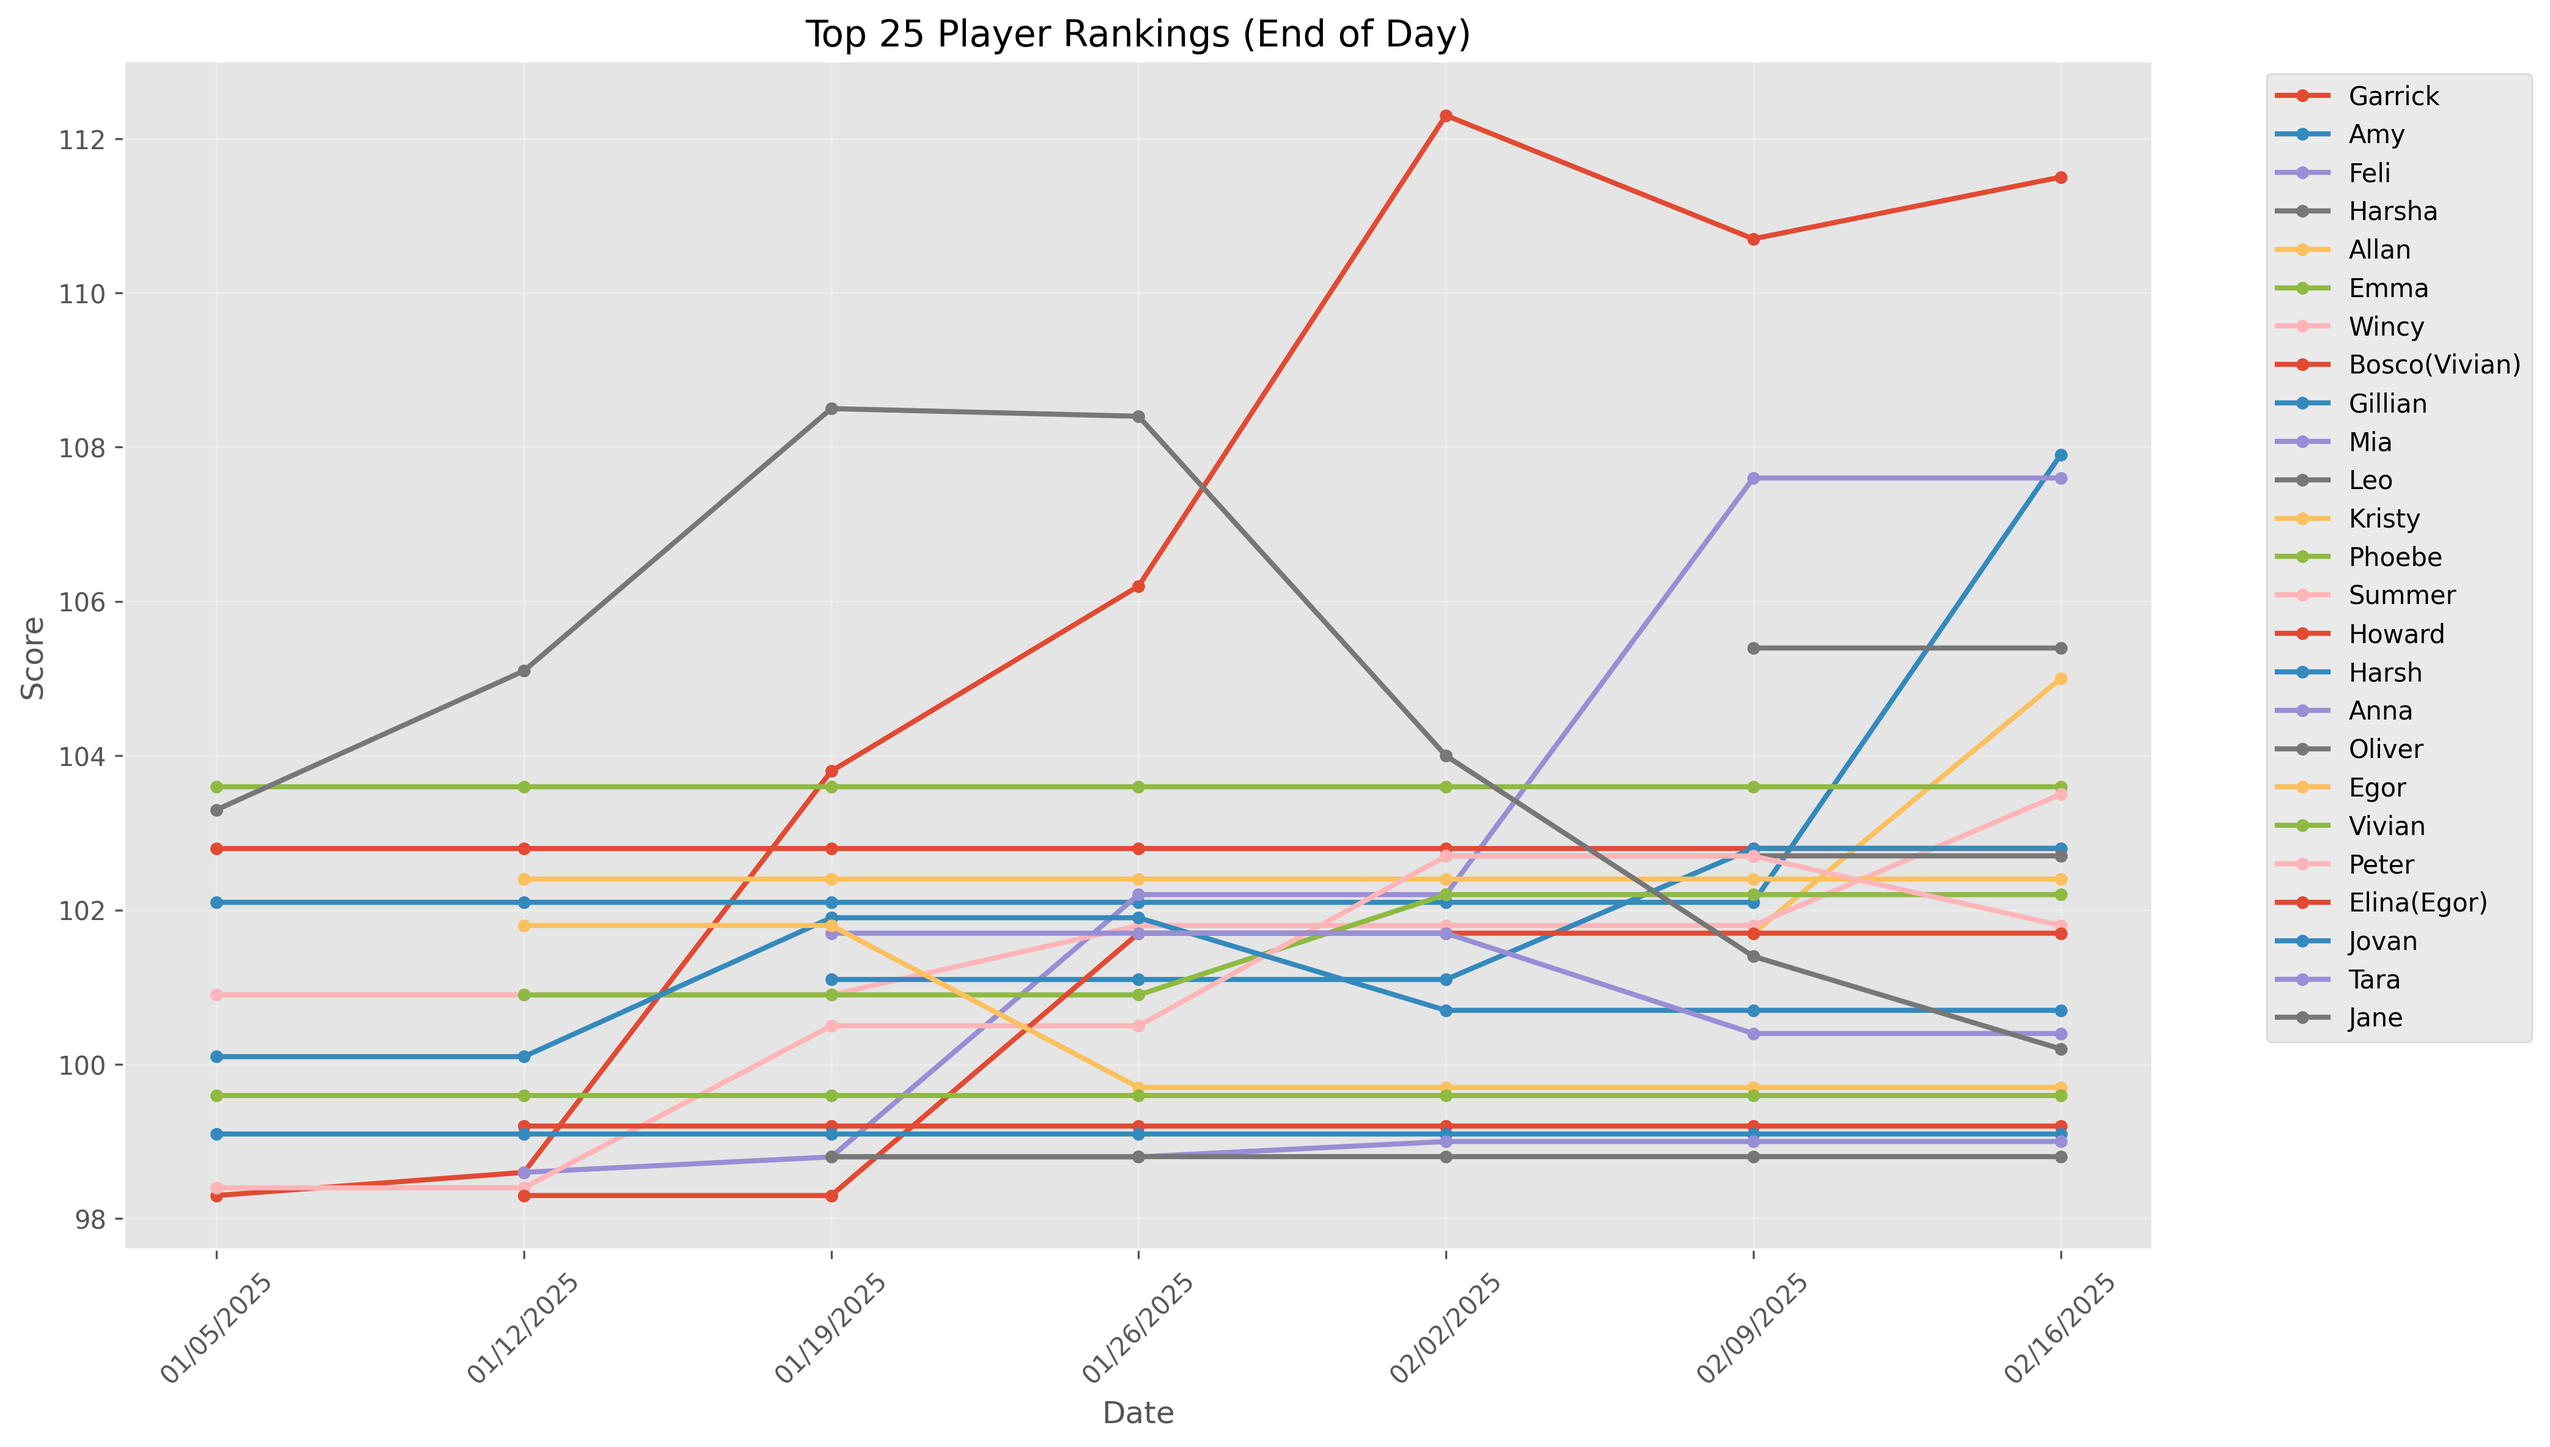
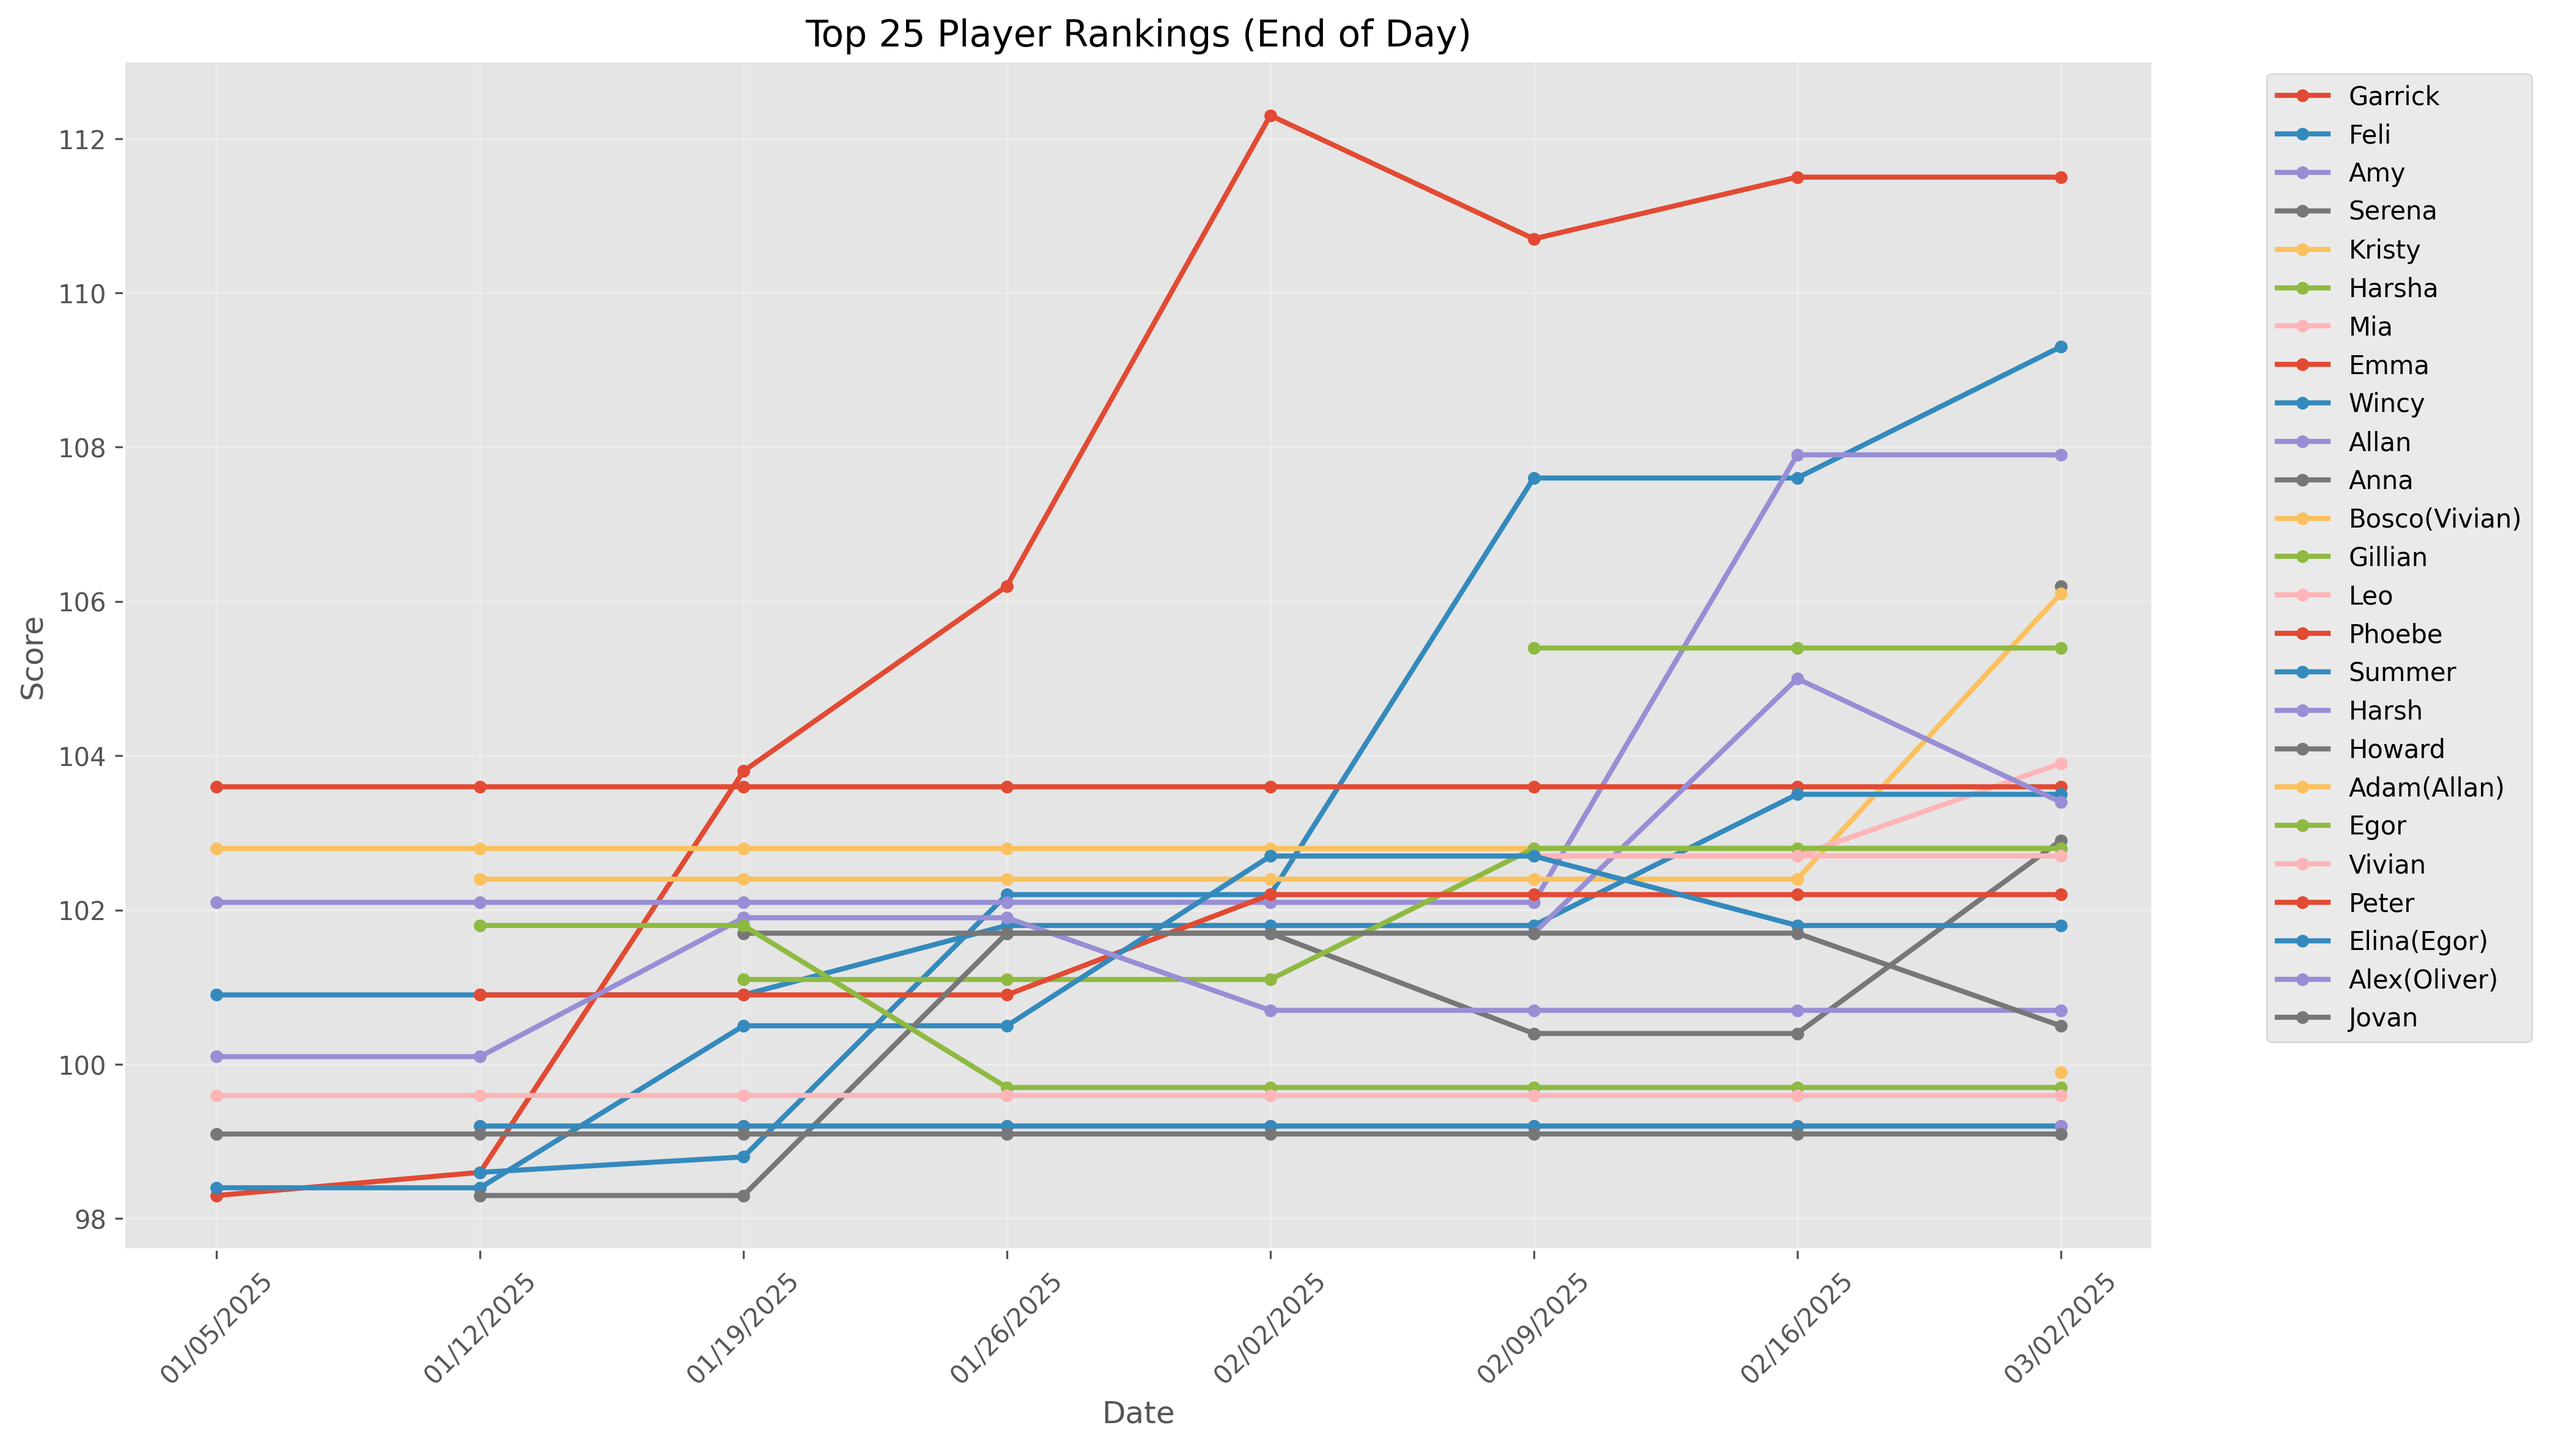
update rankings

diff --git a/README.md b/README.md
@@ -5,32 +5,36 @@
 | Player | Score | Wins | Losses | Win % |
 | --- | --- | --- | --- | --- |
 | Garrick | 111.50 | 13 | 11 | 54% |
+| Feli | 109.30 | 4 | 5 | 44% |
 | Amy | 107.90 | 4 | 3 | 57% |
-| Feli | 107.60 | 4 | 4 | 50% |
+| Serena | 106.20 | 2 | 1 | 67% |
+| Kristy | 106.10 | 2 | 1 | 67% |
 | Harsha | 105.40 | 1 | 1 | 50% |
-| Allan | 105.00 | 2 | 3 | 40% |
+| Mia | 103.90 | 3 | 0 | 100% |
 | Emma | 103.60 | 3 | 0 | 100% |
 | Wincy | 103.50 | 3 | 2 | 60% |
+| Allan | 103.40 | 3 | 4 | 43% |
+| Anna | 102.90 | 3 | 1 | 75% |
 | Bosco(Vivian) | 102.80 | 3 | 1 | 75% |
 | Gillian | 102.80 | 3 | 1 | 75% |
-| Mia | 102.70 | 2 | 0 | 100% |
 | Leo | 102.70 | 0 | 1 | 0% |
-| Kristy | 102.40 | 2 | 0 | 100% |
 | Phoebe | 102.20 | 2 | 3 | 40% |
 | Summer | 101.80 | 4 | 9 | 31% |
-| Howard | 101.70 | 2 | 3 | 40% |
 | Harsh | 100.70 | 3 | 5 | 38% |
-| Anna | 100.40 | 1 | 1 | 50% |
-| Oliver | 100.20 | 11 | 13 | 46% |
+| Howard | 100.50 | 2 | 5 | 29% |
+| Adam(Allan) | 99.90 | 0 | 2 | 0% |
 | Egor | 99.70 | 2 | 3 | 40% |
 | Vivian | 99.60 | 1 | 2 | 33% |
 | Peter | 99.20 | 0 | 1 | 0% |
 | Elina(Egor) | 99.20 | 0 | 1 | 0% |
+| Alex(Oliver) | 99.20 | 0 | 1 | 0% |
 | Jovan | 99.10 | 1 | 2 | 33% |
 | Tara | 99.00 | 1 | 8 | 11% |
 | Jane | 98.80 | 1 | 4 | 20% |
+| Oliver | 98.70 | 12 | 15 | 44% |
 | NicoleHu | 98.60 | 0 | 2 | 0% |
 | Alima | 98.40 | 0 | 2 | 0% |
+| Hayes(Allan) | 97.90 | 0 | 2 | 0% |
 | Tyler | 97.70 | 3 | 3 | 50% |
 | Alexandra | 92.60 | 0 | 3 | 0% |
 
@@ -42,12 +46,15 @@
 
 | Player | Wins | Losses | Win % |
 | --- | --- | --- | --- |
-| Oliver | 2 | 1 | 67% |
+| Oliver | 2 | 2 | 50% |
 | Garrick | 2 | 1 | 67% |
 | Feli | 1 | 0 | 100% |
 | Mia | 1 | 0 | 100% |
+| Anna | 1 | 0 | 100% |
+| Serena | 1 | 0 | 100% |
 | Harsh | 1 | 2 | 33% |
 | Phoebe | 0 | 1 | 0% |
+| Howard | 0 | 1 | 0% |
 | Summer | 0 | 3 | 0% |
 | Jane | 0 | 2 | 0% |
 | Tara | 0 | 3 | 0% |
@@ -101,13 +108,18 @@
 
 | Player | Wins | Losses | Win % |
 | --- | --- | --- | --- |
+| Serena | 1 | 0 | 100% |
 | Amy | 1 | 1 | 50% |
 | Garrick | 2 | 2 | 50% |
-| Allan | 0 | 2 | 0% |
+| Kristy | 0 | 1 | 0% |
+| Feli | 0 | 1 | 0% |
 | Tara | 0 | 2 | 0% |
 | Summer | 1 | 3 | 25% |
-| Oliver | 0 | 4 | 0% |
+| Adam(Allan) | 0 | 1 | 0% |
+| Allan | 0 | 3 | 0% |
+| Hayes(Allan) | 0 | 1 | 0% |
 | Tyler | 0 | 1 | 0% |
+| Oliver | 0 | 5 | 0% |
 
 ### Quest
 
@@ -128,29 +140,33 @@
 
 | Player | Wins | Losses | Win % |
 | --- | --- | --- | --- |
-| Oliver | 5 | 2 | 71% |
+| Oliver | 6 | 2 | 75% |
 | Gillian | 3 | 0 | 100% |
 | Summer | 3 | 2 | 60% |
+| Allan | 2 | 0 | 100% |
 | Emma | 2 | 0 | 100% |
+| Mia | 2 | 0 | 100% |
 | Garrick | 4 | 3 | 57% |
 | Vivian | 1 | 0 | 100% |
-| Allan | 1 | 0 | 100% |
 | Harsh | 2 | 2 | 50% |
 | Kristy | 1 | 0 | 100% |
 | Egor | 1 | 0 | 100% |
-| Mia | 1 | 0 | 100% |
 | Amy | 1 | 1 | 50% |
 | Phoebe | 1 | 1 | 50% |
 | Feli | 1 | 1 | 50% |
 | Tyler | 1 | 1 | 50% |
+| Anna | 1 | 1 | 50% |
 | Tara | 1 | 2 | 33% |
 | Bosco(Vivian) | 1 | 1 | 50% |
 | Jovan | 1 | 1 | 50% |
 | Peter | 0 | 1 | 0% |
-| Howard | 0 | 1 | 0% |
 | Elina(Egor) | 0 | 1 | 0% |
+| Hayes(Allan) | 0 | 1 | 0% |
+| Adam(Allan) | 0 | 1 | 0% |
+| Alex(Oliver) | 0 | 1 | 0% |
 | Harsha | 0 | 1 | 0% |
-| Anna | 0 | 1 | 0% |
+| Serena | 0 | 1 | 0% |
+| Howard | 0 | 2 | 0% |
 | Alexandra | 0 | 2 | 0% |
 | Jane | 0 | 2 | 0% |
 
